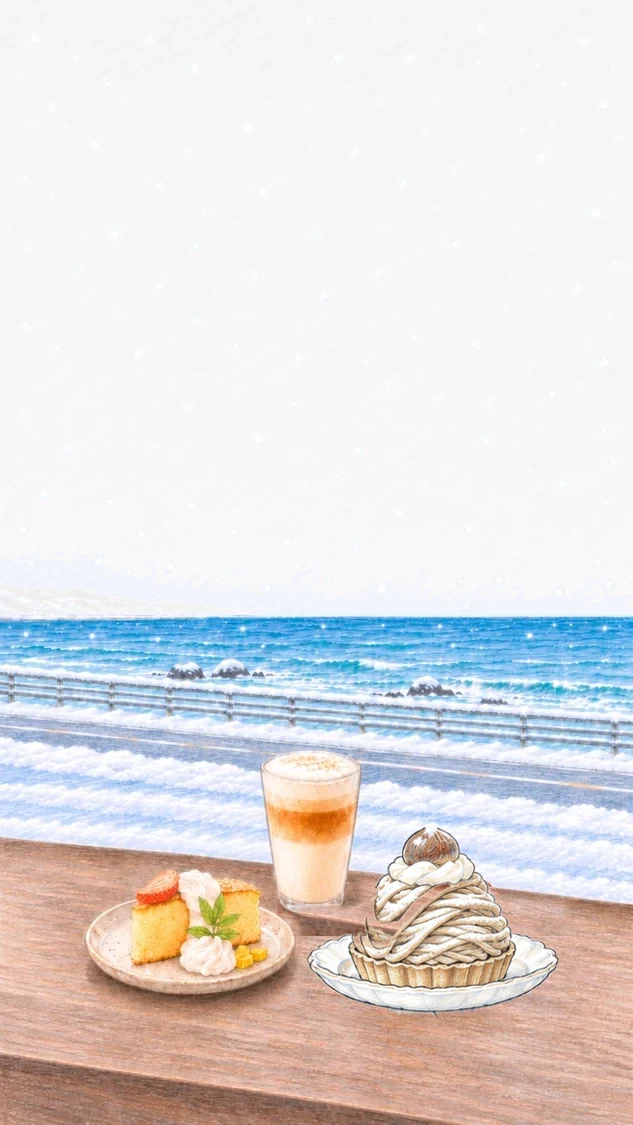
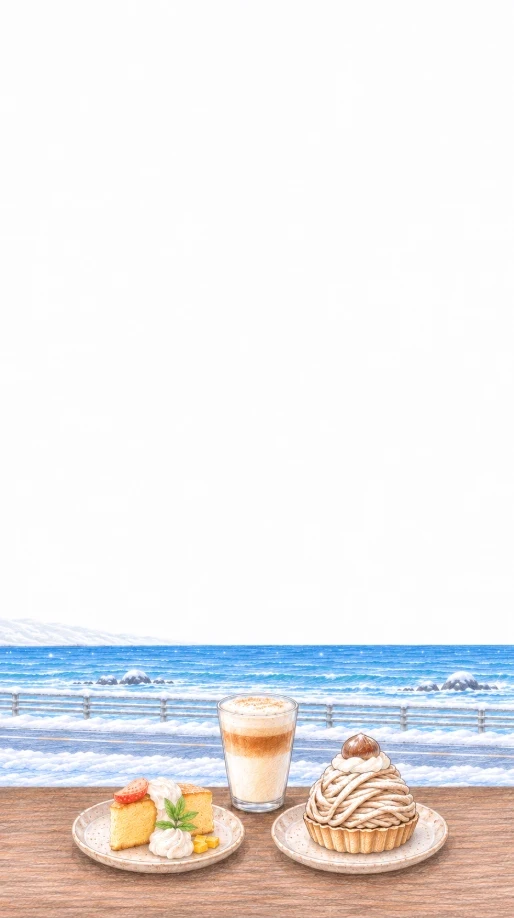
Keep 行前準備 snow piling after it falls; new 想吃清單 backgrounds
After the snow falls, the pile keeps growing; each time it is full again
the clumps land on the next four items down the list, until a swipe
clears it all.

想吃清單 uses the new wide and tall pictures (trimmed of a dark edge),
with the falling snow and rippling sea fitted to them.

diff --git a/src/component/PrepSnowfall.jsx b/src/component/PrepSnowfall.jsx
@@ -1,9 +1,9 @@
 import { useCallback, useEffect, useRef, useState } from "react";
 
 // The snow on top of the 行前準備 notebook: it piles up slowly along the top
-// edge; once the pile is full, clumps of it slide off and land on the first
-// items, hiding their text. A sideways swipe across the notebook brushes the
-// snow away, and it starts piling up again.
+// edge; each time the pile is full, clumps of it slide off onto the next items
+// down the list, hiding their text, and it keeps piling up. A sideways swipe
+// across the notebook brushes the snow away, and it starts piling up again.
 const FILL_SECONDS = 45; // empty to full
 const TICK_MS = 200;
 const AFTER_FALL = 0.3; // what stays on top once the clumps have fallen
@@ -30,48 +30,55 @@ export default function usePrepSnowfall(sheetRef) {
   const [clumps, setClumps] = useState([]);
   const [brushing, setBrushing] = useState(0); // swipe direction while clearing
   const levelRef = useRef(level);
-  const fallenRef = useRef(false);
+  // True while a fall or a brush plays, so the pile waits for it.
+  const holdRef = useRef(false);
+  // How many times snow has fallen since the last brush: each fall lands on
+  // the next four items down the list.
+  const dropsRef = useRef(0);
 
-  // Snow over the first few items' text, placed from the list as it is now.
+  // Snow over the next few items' text, placed from the list as it is now.
   const dropClumps = useCallback(() => {
     const sheet = sheetRef.current;
     if (!sheet) return;
     const sheetBox = sheet.getBoundingClientRect();
-    const texts = [...sheet.querySelectorAll(".prep-list .prep-text")].slice(0, 4);
+    const all = [...sheet.querySelectorAll(".prep-list .prep-text")];
+    if (!all.length) return;
+    const from = (dropsRef.current * 4) % all.length;
+    dropsRef.current += 1;
+    const texts = all.slice(from, from + 4);
     const seed = Date.now() % 1000;
-    setClumps(
-      texts.flatMap((text, index) => {
-        const box = text.getBoundingClientRect();
-        const width = Math.min(150, Math.max(80, box.width * 0.75));
-        const left = box.left - sheetBox.left - 8 + ((seed * (index + 3)) % 30);
-        return [{
-          id: `${seed}-${index}`,
-          left,
-          top: box.top - sheetBox.top + box.height / 2 - 18,
-          width,
-          fallFrom: box.top - sheetBox.top + 60,
-          delay: index * 0.18,
-          seed: seed + index,
-        }];
-      }),
-    );
+    const added = texts.map((text, index) => {
+      const box = text.getBoundingClientRect();
+      const width = Math.min(150, Math.max(80, box.width * 0.75));
+      return {
+        id: `${seed}-${from + index}`,
+        left: box.left - sheetBox.left - 8 + ((seed * (index + 3)) % 30),
+        top: box.top - sheetBox.top + box.height / 2 - 18,
+        width,
+        fallFrom: box.top - sheetBox.top + 60,
+        delay: index * 0.18,
+        seed: seed + index,
+      };
+    });
+    setClumps((current) => [...current, ...added]);
   }, [sheetRef]);
 
-  // Pile up, and let the clumps fall once full.
+  // Pile up; each time it is full, clumps fall and it keeps piling up.
   useEffect(() => {
     if (still) return undefined;
     const step = TICK_MS / 1000 / FILL_SECONDS;
     const timer = window.setInterval(() => {
-      if (fallenRef.current) return;
+      if (holdRef.current) return;
       const next = Math.min(1, levelRef.current + step);
       levelRef.current = next;
       setLevel(next);
       if (next >= 1) {
-        fallenRef.current = true;
+        holdRef.current = true;
         dropClumps();
         window.setTimeout(() => {
           levelRef.current = AFTER_FALL;
           setLevel(AFTER_FALL);
+          holdRef.current = false;
         }, 250);
       }
     }, TICK_MS);
@@ -80,15 +87,16 @@ export default function usePrepSnowfall(sheetRef) {
 
   // Brush everything off, then start piling up again.
   const brush = useCallback((direction) => {
-    if (still || (!fallenRef.current && levelRef.current < 0.08)) return;
+    if (still || (!dropsRef.current && levelRef.current < 0.08)) return;
     setBrushing(direction);
-    fallenRef.current = true; // hold the pile while it slides off
+    holdRef.current = true; // hold the pile while it slides off
     window.setTimeout(() => {
       levelRef.current = 0;
+      dropsRef.current = 0;
       setLevel(0);
       setClumps([]);
       setBrushing(0);
-      fallenRef.current = false;
+      holdRef.current = false;
     }, 520);
   }, [still]);
 

diff --git a/src/component/WishlistScene.jsx b/src/component/WishlistScene.jsx
@@ -15,20 +15,20 @@ const SCENES = [
   {
     name: "wide",
     src: wide,
-    w: 1999,
-    h: 1125,
-    snow: [[0, 0], [1999, 0], [1999, 903], [1300, 903], [1300, 824], [1140, 824], [1140, 903], [1080, 903], [1080, 722], [925, 722], [925, 903], [0, 903]],
+    w: 1630,
+    h: 914,
+    snow: [[0, 0], [1630, 0], [1630, 735], [1056, 735], [1056, 644], [882, 644], [882, 582], [750, 582], [750, 735], [0, 735]],
     count: 140,
-    sea: [598, 674],
+    sea: [486, 572],
   },
   {
     name: "tall",
     src: tall,
-    w: 633,
-    h: 1125,
-    snow: [[0, 0], [633, 0], [633, 842], [464, 842], [464, 820], [398, 820], [398, 842], [360, 842], [360, 752], [262, 752], [262, 842], [0, 842]],
+    w: 514,
+    h: 918,
+    snow: [[0, 0], [514, 0], [514, 784], [434, 784], [434, 730], [322, 730], [322, 784], [300, 784], [300, 690], [214, 690], [214, 784], [0, 784]],
     count: 90,
-    sea: [616, 668],
+    sea: [646, 684],
   },
 ];
 
